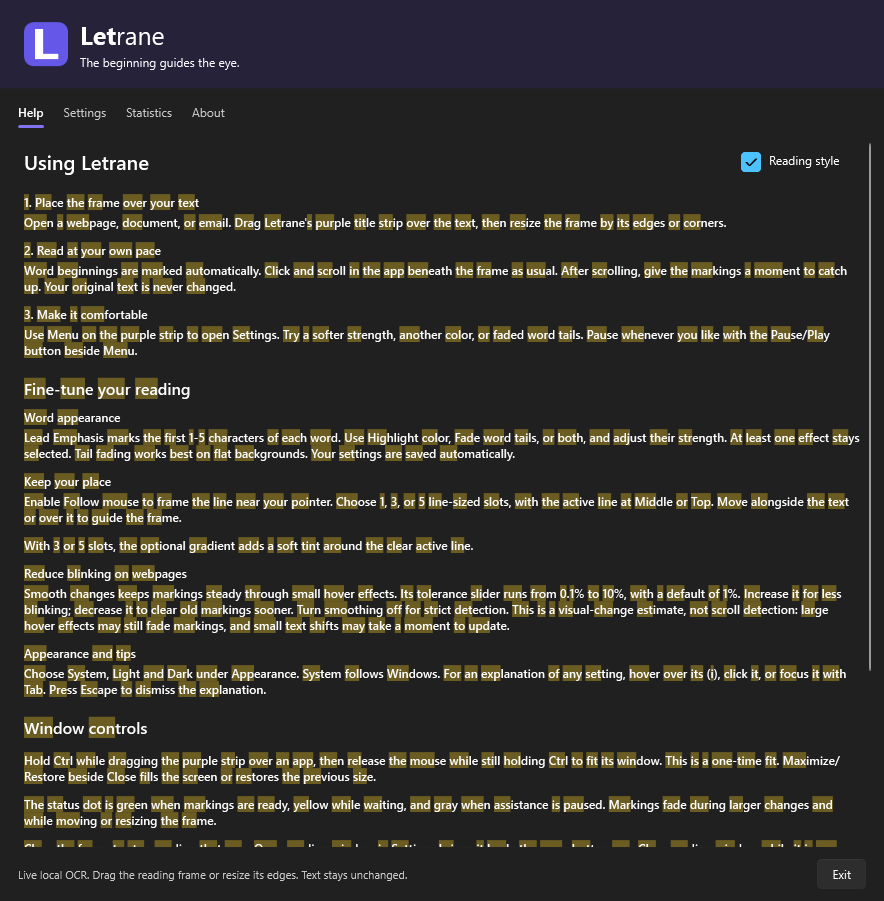
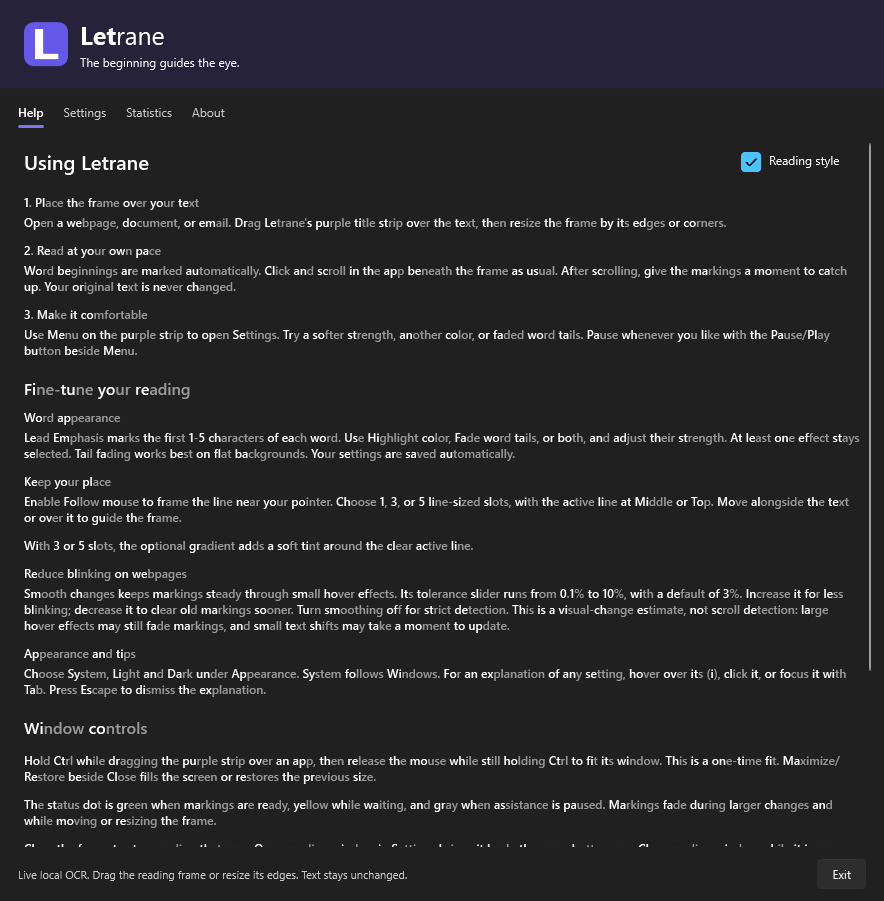
Refresh default settings screenshots and explain ADHD support limitations
Show latest tail-fade defaults and the actual three-line follow-mouse gradient over synthetic OCR text. Label previews for the next release and clarify that reading benefits are not clinically proven.

diff --git a/README.md b/README.md
@@ -30,6 +30,18 @@ word beginnings, softer word tails, or both, and adjust their strength. It is an
 experiment in making text more comfortable to follow, not a promise that one
 reading style works for everyone.
 
+### Reading support and ADHD
+
+Some people with ADHD find visual reading aids, such as a line guide or clearer
+word beginnings, helpful for keeping their place and making reading feel more
+manageable. Letrane offers these as optional supports to try, not as a solution
+that works for everyone.
+
+**Letrane has not been clinically validated, and its reading benefits for people
+with ADHD have not been medically proven.** It does not diagnose, treat or cure
+ADHD, and it is not a replacement for professional advice or care. Personal
+experiences are not clinical evidence; choose what feels comfortable for you.
+
 ## Why “Letrane”?
 
 The name brings together **letters**, **Ane**, and a little bit of **rain**.
@@ -59,8 +71,28 @@ of words.
 
 ## Screenshots
 
-These are views of Letrane's actual interface, rendered with default settings
-in a clean preview. No personal documents or desktop content are shown.
+These are views of Letrane's latest development interface, rendered in a clean
+preview. No personal documents or desktop content are shown. The screenshots
+show the new defaults for the next release; the currently published v0.1.0
+download may look different.
+
+The new defaults are **Smooth changes: 3%**, **Lead emphasis: 2** and
+**Tail fade strength: 75%**. **Highlight color** starts off, with **Yellow**
+selected; **Fade word tails** starts on. **Follow mouse** starts on with
+**3 lines**, **Middle** placement and **gradient fill**. **Color theme** is
+**System** (shown here on a dark Windows desktop).
+
+### Follow your reading line
+
+The yellow follow-mouse frame keeps the active middle line clear, with a soft
+gradient above and below it. Word tails are gently faded while the first two
+characters stay unchanged.
+
+This clean demonstration uses sample text recognized by Windows OCR and
+Letrane's actual reading-frame and overlay rendering. The pointer position is
+fixed for the image; no private desktop content is captured.
+
+![Letrane reading frame over sample text, with faded word tails and a yellow three-line follow-mouse gradient around the clear middle line](assets/screenshots/follow-mouse.png)
 
 ### Start with three simple steps
 
@@ -74,7 +106,10 @@ the appearance comfortable.
 The **Reading style** checkbox applies Letrane's emphasis directly to the Help
 text. This shows the built-in preview—not a screenshot of OCR over another app.
 
-![Letrane Help text with word beginnings highlighted in yellow](assets/screenshots/reading-style.png)
+The preview uses the new default tail fading; the mouse-following frame is
+demonstrated separately above, not inside the Help text.
+
+![Letrane Help text with the first two characters unchanged and word tails gently faded](assets/screenshots/reading-style.png)
 
 ### Make it your own
 
@@ -82,6 +117,8 @@ Reading assistance, word appearance and mouse-following controls are grouped
 into compact cards, with explanations available from the small information icons.
 
 ![Letrane Settings tab showing smoothing, word emphasis and mouse-following options](assets/screenshots/settings.png)
+
+![Letrane Follow mouse controls with tracking enabled, three lines, Middle placement and gradient enabled, followed by System color theme](assets/screenshots/follow-mouse-settings.png)
 
 ## The visual identity
 
@@ -131,6 +168,11 @@ hashed random installation identifier to the developer's Azure service in North
 Europe. No screen content, recognized text, hardware identifiers or account names
 are included. The identifier links reports from the same installation; reports
 are pseudonymous, not fully anonymous.
+
+The next release also includes current reading-setting choices in these reports,
+so the developer can see which options people prefer. These are exit-time
+preferences, not a record of what you read or how long you used each setting.
+Sharing the settings follows the same Statistics opt-out.
 
 Received reports are retained for 12 years (4,383 days). Opting out stops future
 reports but does not erase existing reports early. Network services process
